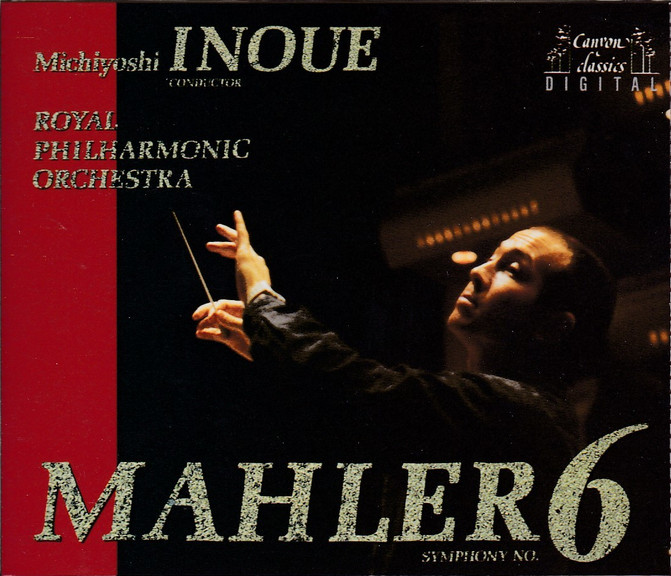
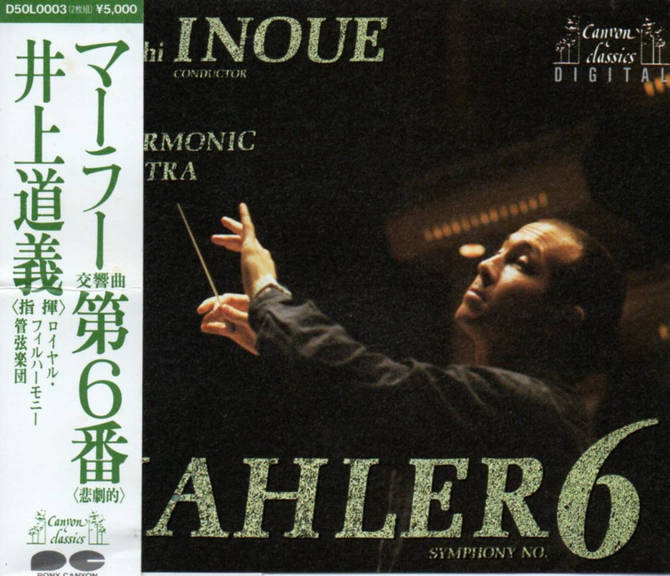
update D50L0003 and 002 covers w/ obi; change th bgcolor

diff --git a/style.css b/style.css
@@ -13,6 +13,6 @@ table, th, td
 
 th
 {
-    background-color: black;
+    background-color: #366C2E;
     color: white;
 }
